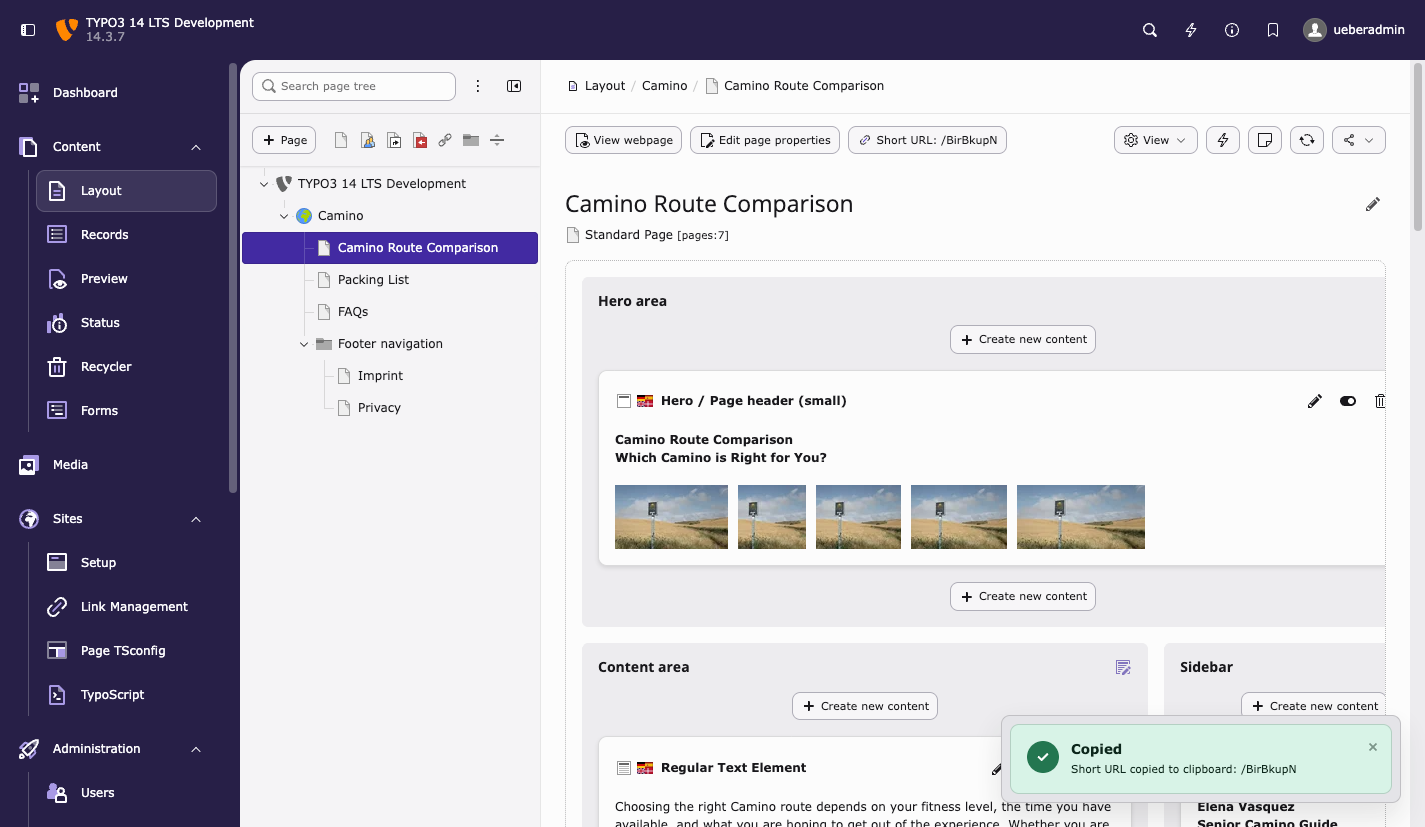
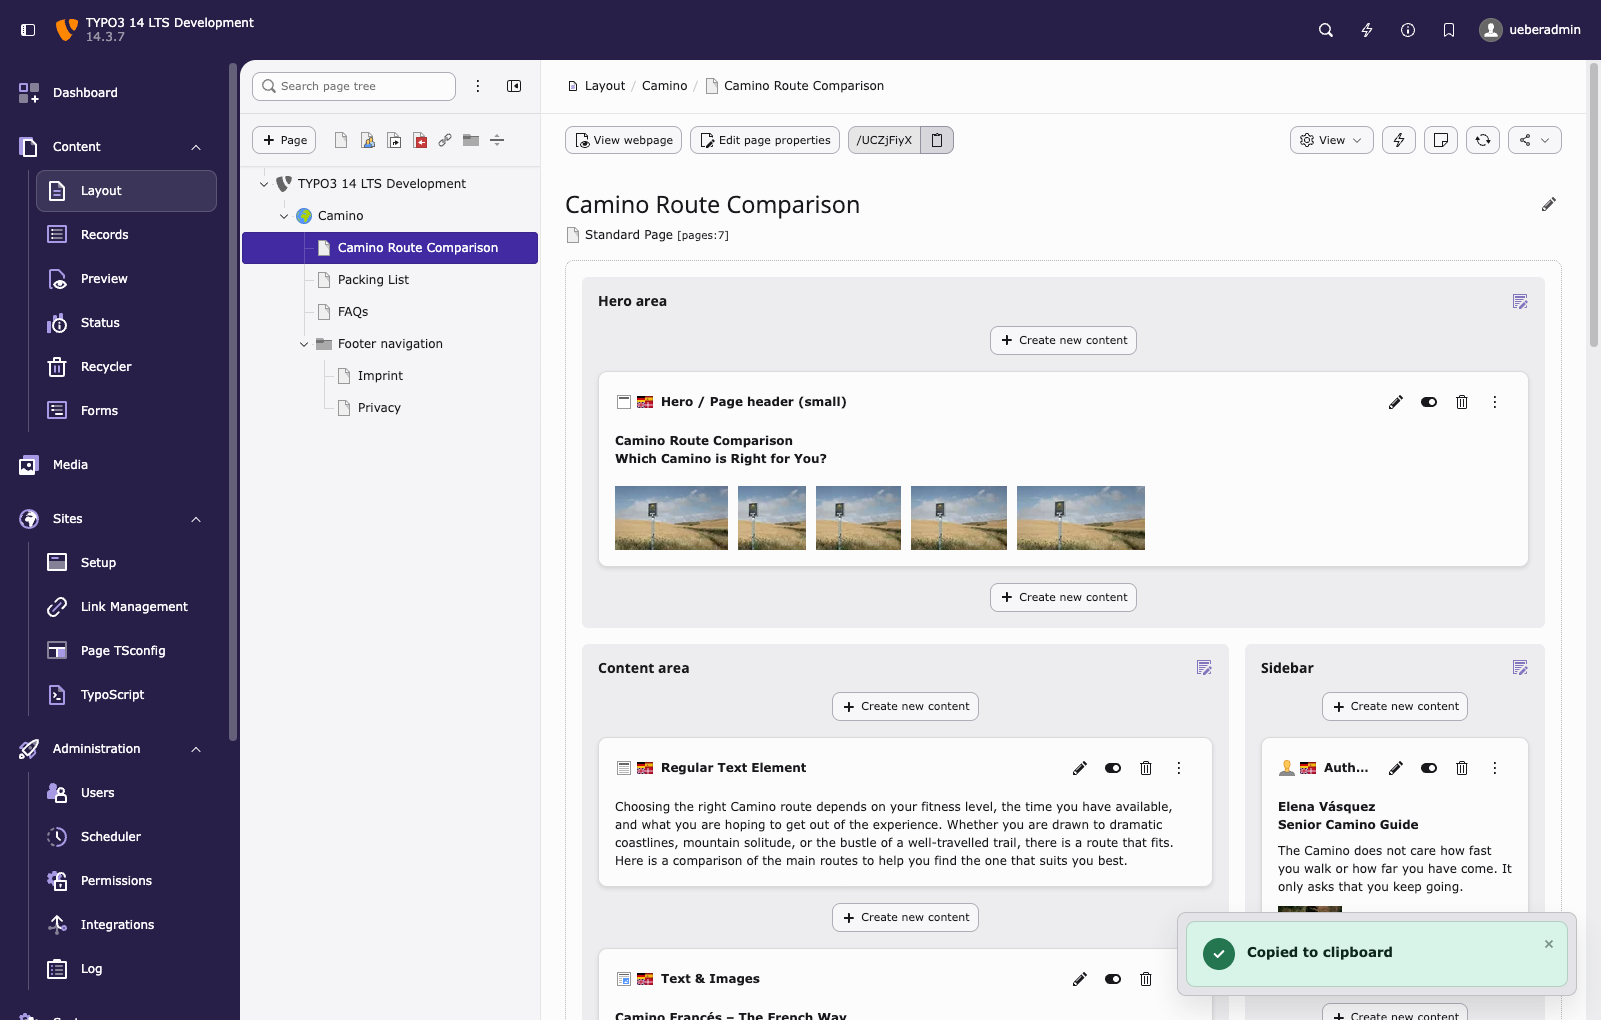
[TASK] Modify short URL button on page module doc header
Show a "Create Short URL" link in the page module button bar for pages
whose doktype is enabled in the site configuration. Once a short URL
exists, show its path with a copy-to-clipboard button instead. Add the
confirmation JS module, the EN/DE labels, and the editor and developer
documentation with screenshots.

diff --git a/Resources/Public/JavaScript/ShortUrlActions.js b/Resources/Public/JavaScript/ShortUrlActions.js
@@ -1,32 +1,17 @@
-import Notification from '@typo3/backend/notification.js';
-
 /**
  * @module @ueberbit/shorturls/short-url-actions
  */
 class ShortUrlActions {
   constructor() {
     document.addEventListener('click', (event) => {
-      const target = event.target.closest('[data-shorturl-copy], [data-shorturl-confirm]');
+      const target = event.target.closest('[data-shorturl-confirm]');
       if (!target) {
         return;
       }
 
-      if (target.hasAttribute('data-shorturl-copy')) {
+      const message = target.getAttribute('data-shorturl-confirm');
+      if (!confirm(message)) {
         event.preventDefault();
-        const textToCopy = target.getAttribute('data-shorturl-copy');
-        const displayUrl = target.getAttribute('data-shorturl-display') || textToCopy;
-        const notificationTitle = target.getAttribute('data-shorturl-notification-title') || 'Copied';
-        let notificationMessage = target.getAttribute('data-shorturl-notification-message') || 'Short URL copied to clipboard: %s';
-        notificationMessage = notificationMessage.replace('%s', displayUrl);
-
-        navigator.clipboard.writeText(textToCopy).then(() => {
-          Notification.success(notificationTitle, notificationMessage, 2);
-        });
-      } else if (target.hasAttribute('data-shorturl-confirm')) {
-        const message = target.getAttribute('data-shorturl-confirm');
-        if (!confirm(message)) {
-          event.preventDefault();
-        }
       }
     });
   }

diff --git a/Classes/EventListener/AddShortUrlButton.php b/Classes/EventListener/AddShortUrlButton.php
@@ -4,9 +4,9 @@ declare(strict_types=1);
 
 namespace UEBERBIT\Shorturls\EventListener;
 
+use UEBERBIT\Shorturls\Backend\ShortUrlCopyButton;
 use UEBERBIT\Shorturls\Configuration\DoktypeConfiguration;
 use TYPO3\CMS\Backend\Routing\UriBuilder;
-use TYPO3\CMS\Backend\Template\Components\Buttons\LinkButton;
 use TYPO3\CMS\Backend\Template\Components\ModifyButtonBarEvent;
 use TYPO3\CMS\Core\Attribute\AsEventListener;
 use TYPO3\CMS\Core\Database\Connection;
@@ -90,37 +90,38 @@ final readonly class AddShortUrlButton
             ->fetchAssociative();
 
         $languageService = $this->getLanguageService();
+        $buttonBar = $event->getButtonBar();
+        $buttons = $event->getButtons();
 
         if (!empty($redirect)) {
             $shortUrl = $redirect['source_path'] ?? '';
             $fullUrl = rtrim($baseUrl, '/') . '/' . ltrim($shortUrl, '/');
-            $title = sprintf($languageService->sL('LLL:EXT:shorturls/Resources/Private/Language/locallang.xlf:button.title'), $shortUrl);
 
-            $href = '#';
-            $attributes = [
-                'data-shorturl-copy' => $fullUrl,
-                'data-shorturl-display' => $shortUrl,
-                'data-shorturl-notification-title' => $languageService->sL('LLL:EXT:shorturls/Resources/Private/Language/locallang.xlf:notification.copied.title'),
-                'data-shorturl-notification-message' => $languageService->sL('LLL:EXT:shorturls/Resources/Private/Language/locallang.xlf:notification.copied.message'),
-            ];
+            $pageRenderer?->loadJavaScriptModule('@typo3/backend/copy-to-clipboard.js');
+
+            /** @var ShortUrlCopyButton $shortUrlButton */
+            $shortUrlButton = $buttonBar->makeButton(ShortUrlCopyButton::class);
+            $shortUrlButton
+                ->setUrl($fullUrl)
+                ->setLabel('/' . ltrim($shortUrl, '/'))
+                ->setTitle($languageService->sL('LLL:EXT:shorturls/Resources/Private/Language/locallang.xlf:button.copy'))
+                ->setCopyIcon($this->iconFactory->getIcon('actions-clipboard', IconSize::SMALL));
+
+            // Own group, so it is not merged into a btn-group with the core buttons
+            $buttons['left'][] = [$shortUrlButton];
         } else {
-            $title = $languageService->sL('LLL:EXT:shorturls/Resources/Private/Language/locallang.xlf:button.create');
-            $href = (string)$this->uriBuilder->buildUriFromRoute('shorturls_create', ['pageId' => $pageId, 'sourceHost' => $sourceHost]);
-            $attributes = [
-                'data-shorturl-confirm' => $languageService->sL('LLL:EXT:shorturls/Resources/Private/Language/locallang.xlf:confirm.create'),
-            ];
+            $shortUrlButton = $buttonBar->makeLinkButton()
+                ->setHref((string)$this->uriBuilder->buildUriFromRoute('shorturls_create', ['pageId' => $pageId, 'sourceHost' => $sourceHost]))
+                ->setTitle($languageService->sL('LLL:EXT:shorturls/Resources/Private/Language/locallang.xlf:button.create'))
+                ->setShowLabelText(true)
+                ->setAttributes([
+                    'data-shorturl-confirm' => $languageService->sL('LLL:EXT:shorturls/Resources/Private/Language/locallang.xlf:confirm.create'),
+                ])
+                ->setIcon($this->iconFactory->getIcon('module-urls', IconSize::SMALL));
+
+            $buttons['left'][0][] = $shortUrlButton;
         }
 
-        $buttons = $event->getButtons();
-
-        $shortUrlButton = $event->getButtonBar()->makeLinkButton()
-            ->setHref($href)
-            ->setTitle($title)
-            ->setShowLabelText(true)
-            ->setAttributes($attributes)
-            ->setIcon($this->iconFactory->getIcon('module-urls', IconSize::SMALL));
-
-        $buttons['left'][0][] = $shortUrlButton;
         $event->setButtons($buttons);
     }
 

diff --git a/Classes/Backend/ShortUrlCopyButton.php b/Classes/Backend/ShortUrlCopyButton.php
@@ -1,0 +1,79 @@
+<?php
+
+declare(strict_types=1);
+
+namespace UEBERBIT\Shorturls\Backend;
+
+use TYPO3\CMS\Backend\Template\Components\Buttons\ButtonInterface;
+use TYPO3\CMS\Core\Imaging\Icon;
+
+/**
+ * Doc header button showing the full short URL together with a copy-to-clipboard
+ * button, styled like the read-only short_url field of EXT:redirects.
+ */
+final class ShortUrlCopyButton implements ButtonInterface
+{
+    private string $url = '';
+    private string $label = '';
+    private string $title = '';
+    private ?Icon $copyIcon = null;
+
+    public function setUrl(string $url): self
+    {
+        $this->url = $url;
+        return $this;
+    }
+
+    /**
+     * Text shown in the input group; falls back to the URL if empty.
+     */
+    public function setLabel(string $label): self
+    {
+        $this->label = $label;
+        return $this;
+    }
+
+    public function setTitle(string $title): self
+    {
+        $this->title = $title;
+        return $this;
+    }
+
+    public function setCopyIcon(?Icon $copyIcon): self
+    {
+        $this->copyIcon = $copyIcon;
+        return $this;
+    }
+
+    public function isValid(): bool
+    {
+        return $this->url !== '' && $this->copyIcon !== null;
+    }
+
+    public function getType(): string
+    {
+        return self::class;
+    }
+
+    public function render(): string
+    {
+        $url = htmlspecialchars($this->url);
+        $label = htmlspecialchars($this->label !== '' ? $this->label : $this->url);
+        $title = htmlspecialchars($this->title);
+
+        $html = [];
+        $html[] = '<div class="input-group input-group-sm w-auto flex-nowrap">';
+        $html[] = '    <span class="input-group-text">' . $label . '</span>';
+        $html[] = '    <typo3-copy-to-clipboard text="' . $url . '" class="btn btn-default" title="' . $title . '">';
+        $html[] = '        ' . $this->copyIcon->render();
+        $html[] = '    </typo3-copy-to-clipboard>';
+        $html[] = '</div>';
+
+        return implode("\n", $html);
+    }
+
+    public function __toString(): string
+    {
+        return $this->render();
+    }
+}

diff --git a/Documentation/Editor/Index.rst b/Documentation/Editor/Index.rst
@@ -34,33 +34,33 @@ If no short URL exists yet for the current page, the button reads
     The button before a short URL has been created for this page
 
 Clicking it asks for confirmation and then creates the short URL. A flash
-message confirms that it has been created, and the button now shows the
-new short URL.
+message confirms that it has been created, and the button is replaced by
+the new short URL with a clipboard button next to it.
 
 ..  figure:: /Images/ButtonCreated.png
     :class: with-border
     :alt: Page module after a short URL has been created, showing a success
-        message and the button now labelled with the short URL
+        message and the short URL with a clipboard button
 
-    After creation, the button shows the new short URL (here
-    ``/BirBkupN``)
+    After creation, the short URL is shown (here ``/hmRiKgfS``)
 
 .. _editor-copy:
 
 Copying an existing short URL
 ------------------------------
 
-If a short URL already exists for the page, the button shows that short
-URL as its label instead of :guilabel:`Create Short URL`. Clicking it
-copies the full URL (including the site's base URL) to the clipboard, and
-a notification confirms the copy.
+If a short URL already exists for the page, its path (e.g. ``/hmRiKgfS``)
+is shown instead of :guilabel:`Create Short URL`, next to a clipboard
+button – styled like the :guilabel:`Short URL` field in the redirect
+record. Clicking the clipboard button copies the full URL (including the
+site's base URL), and a notification confirms the copy.
 
 ..  figure:: /Images/ButtonCopied.png
     :class: with-border
     :alt: Page module showing a notification that the short URL has been
         copied to the clipboard
 
-    Clicking the button again copies the short URL and shows a
+    Clicking the clipboard button copies the short URL and shows a
     confirmation notification
 
 .. _editor-automatic:

diff --git a/Documentation/Developer/Index.rst b/Documentation/Developer/Index.rst
@@ -43,9 +43,12 @@ currently opened in the page module it:
     :confval:`shorturls_button_on_siteroot` is disabled.
 #.  Looks up an existing short URL redirect for the page.
 #.  Renders either a "create" link (pointing at the ``shorturls_create``
-    backend route) or a "copy to clipboard" link, using
-    ``data-shorturl-*`` attributes that are picked up by the frontend module
-    described below.
+    backend route, confirmed via the frontend module described below) or,
+    if a short URL exists, a :php:`UEBERBIT\Shorturls\Backend\ShortUrlCopyButton`.
+    That button mirrors the read-only ``short_url`` field of EXT:redirects:
+    the short URL path in an input group plus TYPO3's
+    ``<typo3-copy-to-clipboard>`` element, which copies the full URL
+    (including the site's base URL).
 
 .. _developer-doktype-configuration:
 
@@ -135,6 +138,6 @@ Frontend module
 :file:`Resources/Public/JavaScript/ShortUrlActions.js` is loaded on every
 backend page module request via
 :file:`Configuration/JavaScriptModules.php`. It listens for clicks on
-elements carrying ``data-shorturl-copy`` (copies the value to the clipboard
-and shows a notification) or ``data-shorturl-confirm`` (shows a
-confirmation dialog before following the link).
+elements carrying ``data-shorturl-confirm`` (shows a confirmation dialog
+before following the link). Copying is handled by the core
+``@typo3/backend/copy-to-clipboard.js`` module.
